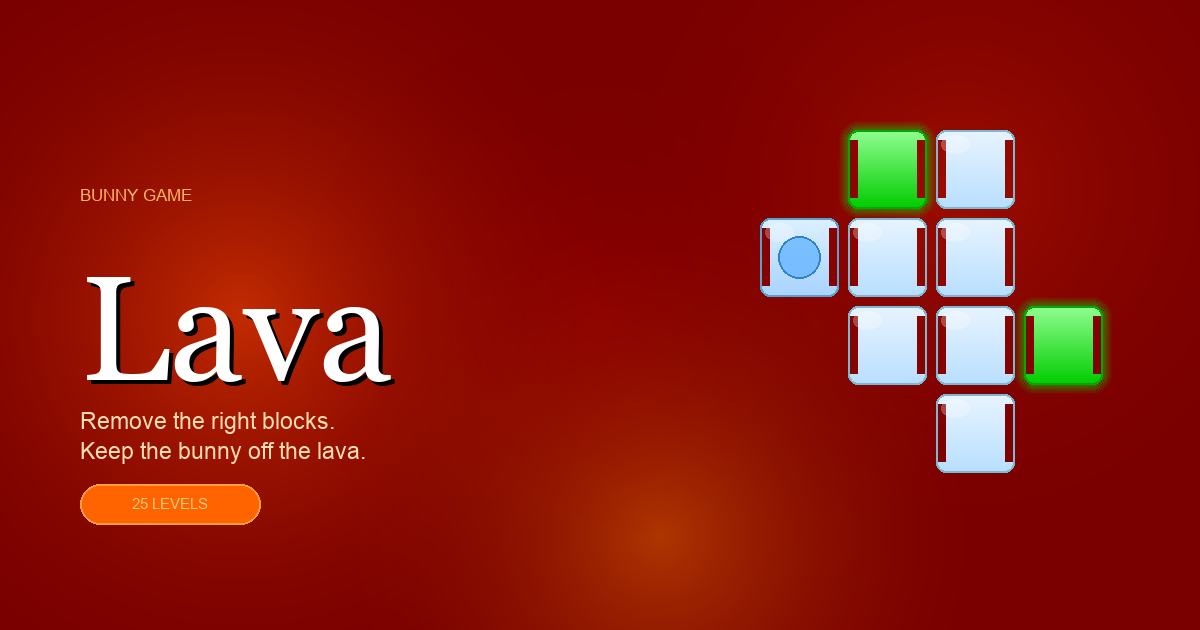
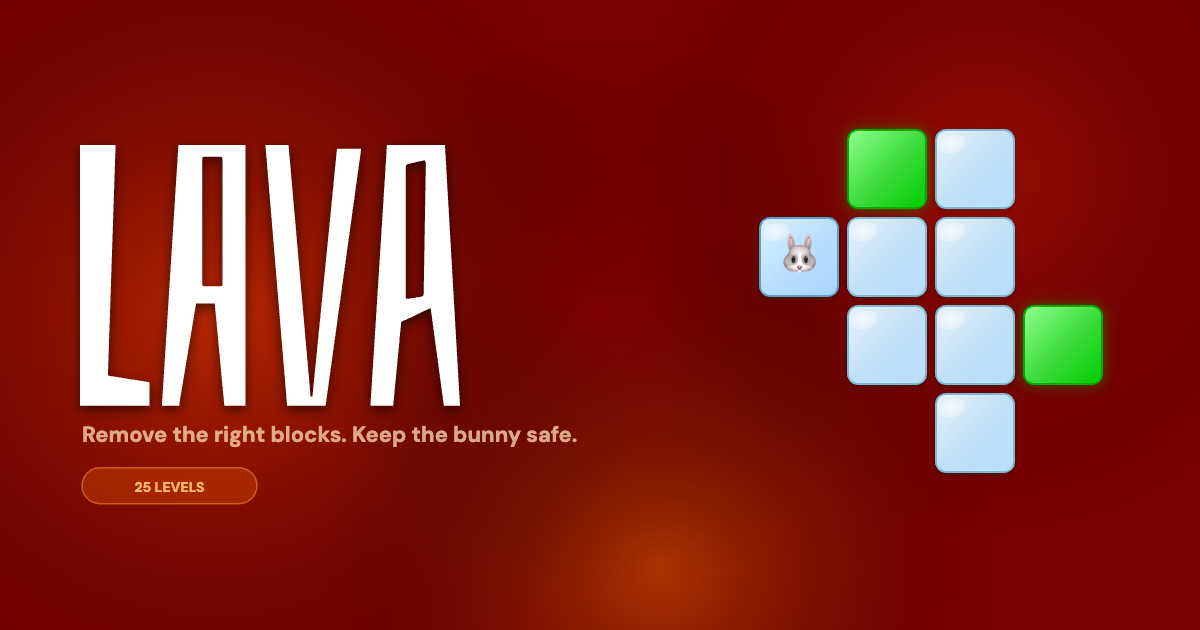
Lava: use lava_logo.svg for lobby card and OG image
- index.html: lobby card now uses lava_logo.svg with brightness(0) invert(1) filter (white on dark red)
- lava-og.png: regenerated with actual SVG logo paths rendered on canvas
- sw.js: bumped to v141, added lava_logo.svg to cache

Changed region(s): [[0.0617, 0.181, 0.925, 0.8746]]

diff --git a/index.html b/index.html
@@ -336,6 +336,7 @@
 
     /* Lava: deep red, ice-blue accent */
     .lc-lava { background: #6B0000; border-color: rgba(180,60,60,0.45); }
+    .lc-lava .lobby-card-logo img { filter: brightness(0) invert(1); }
     .lc-lava .lobby-card-desc { color: rgba(255,220,200,0.75); }
 
     /* Sixty: dark navy, full-color logo */
@@ -379,7 +380,7 @@
 
       <a class="lobby-card lc-lava" href="lava.html">
         <div class="lobby-card-logo">
-          <span style="font-family:'DM Serif Display',serif;font-size:2rem;font-weight:400;color:#fff;letter-spacing:0.02em;line-height:1;">Lava</span>
+          <img src="assets/logos/lava_logo.svg" alt="Lava">
         </div>
         <p class="lobby-card-desc">Remove the right blocks. Keep the bunny safe.</p>
       </a>

diff --git a/sw.js b/sw.js
@@ -1,4 +1,4 @@
-const CACHE = 'bunnygame-v140';
+const CACHE = 'bunnygame-v141';
 const ASSETS = [
   '/',
   '/index.html',
@@ -142,6 +142,7 @@ const ASSETS = [
   '/assets/logos/shaded_logo.svg',
   '/assets/og-images/shaded-og.png',
   '/assets/og-images/lava-og.png',
+  '/assets/logos/lava_logo.svg',
   '/colorblind.html',
   '/assets/css/colorblind.css',
   '/assets/js/colorblind.js',